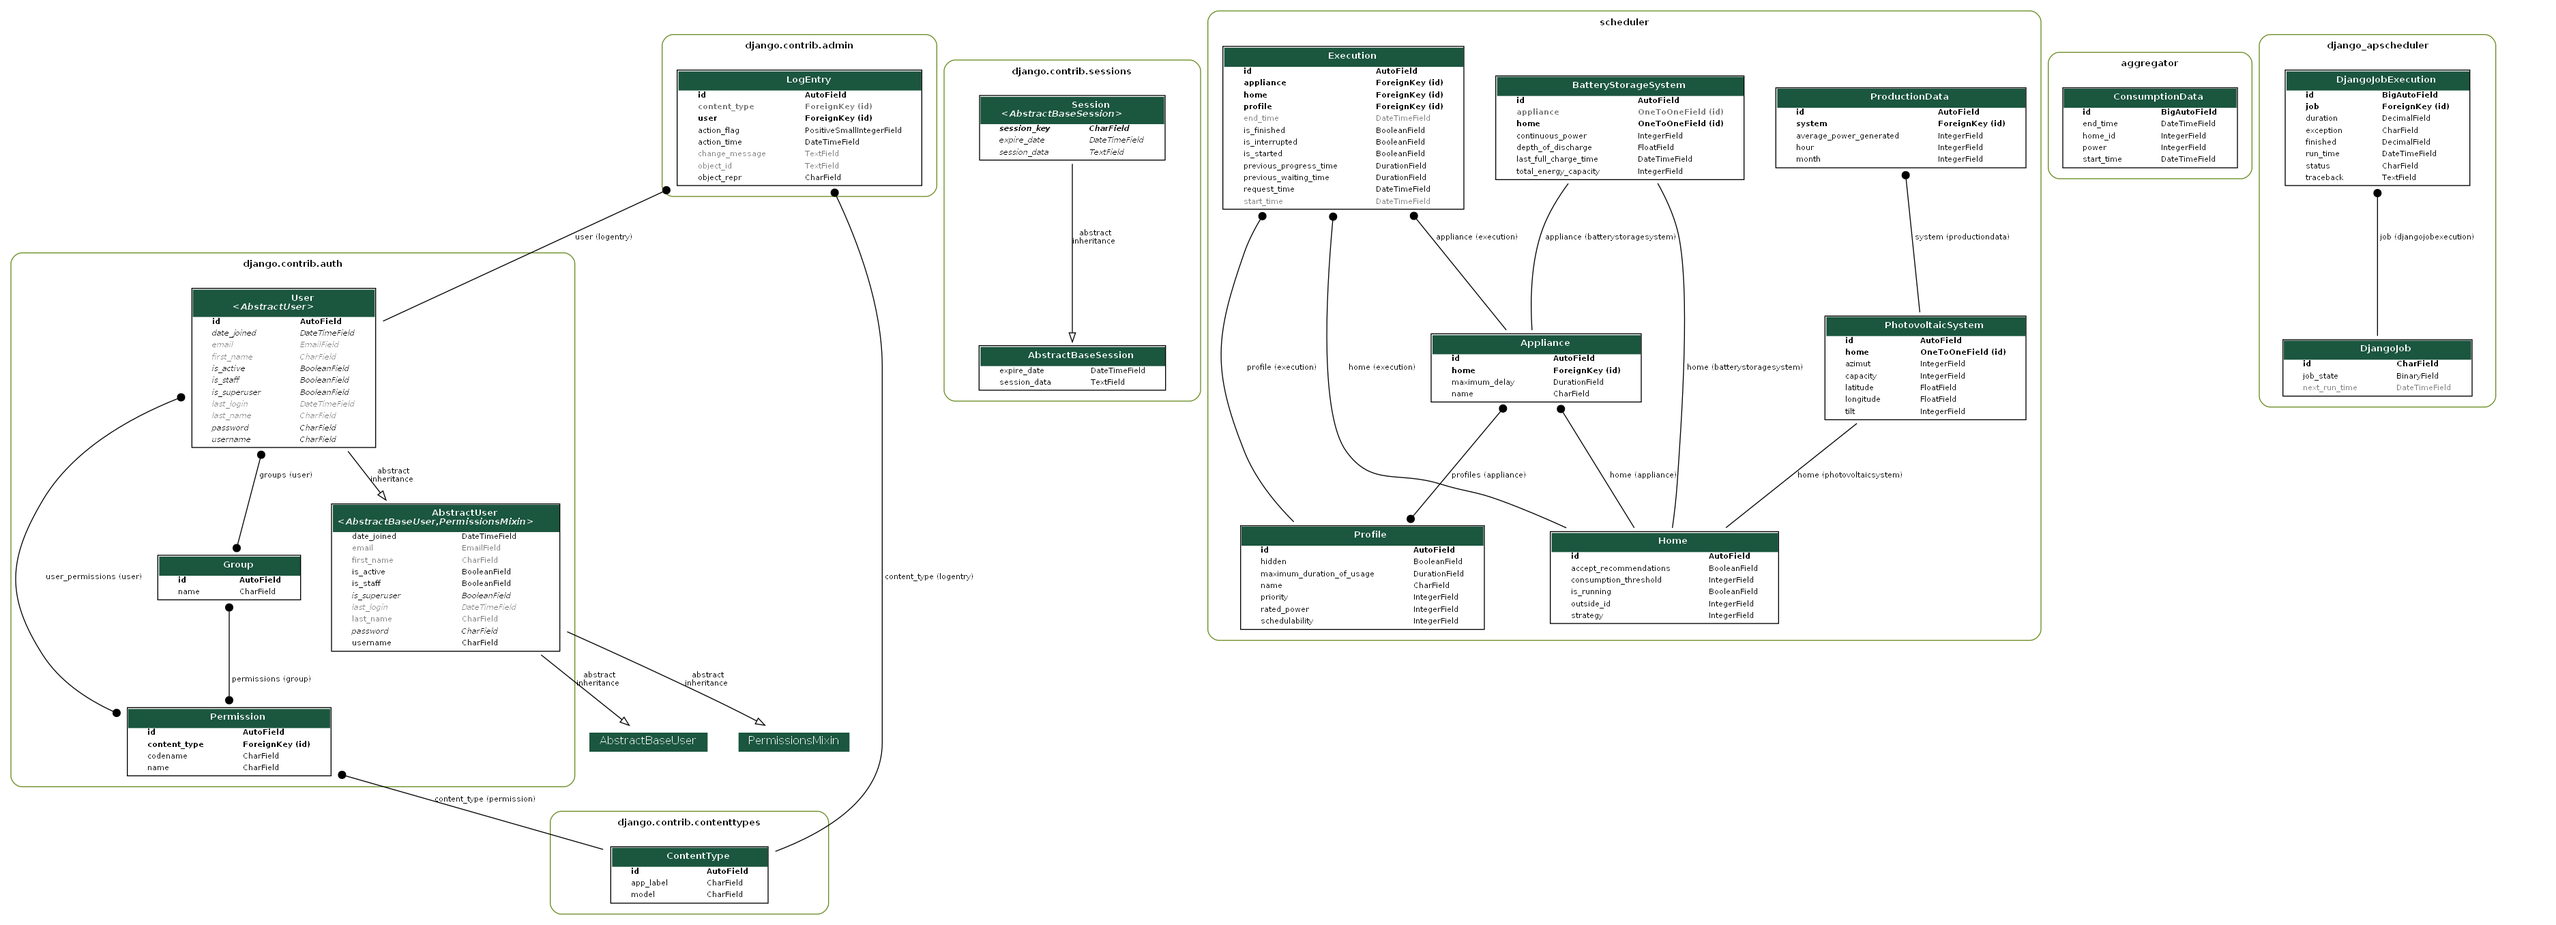
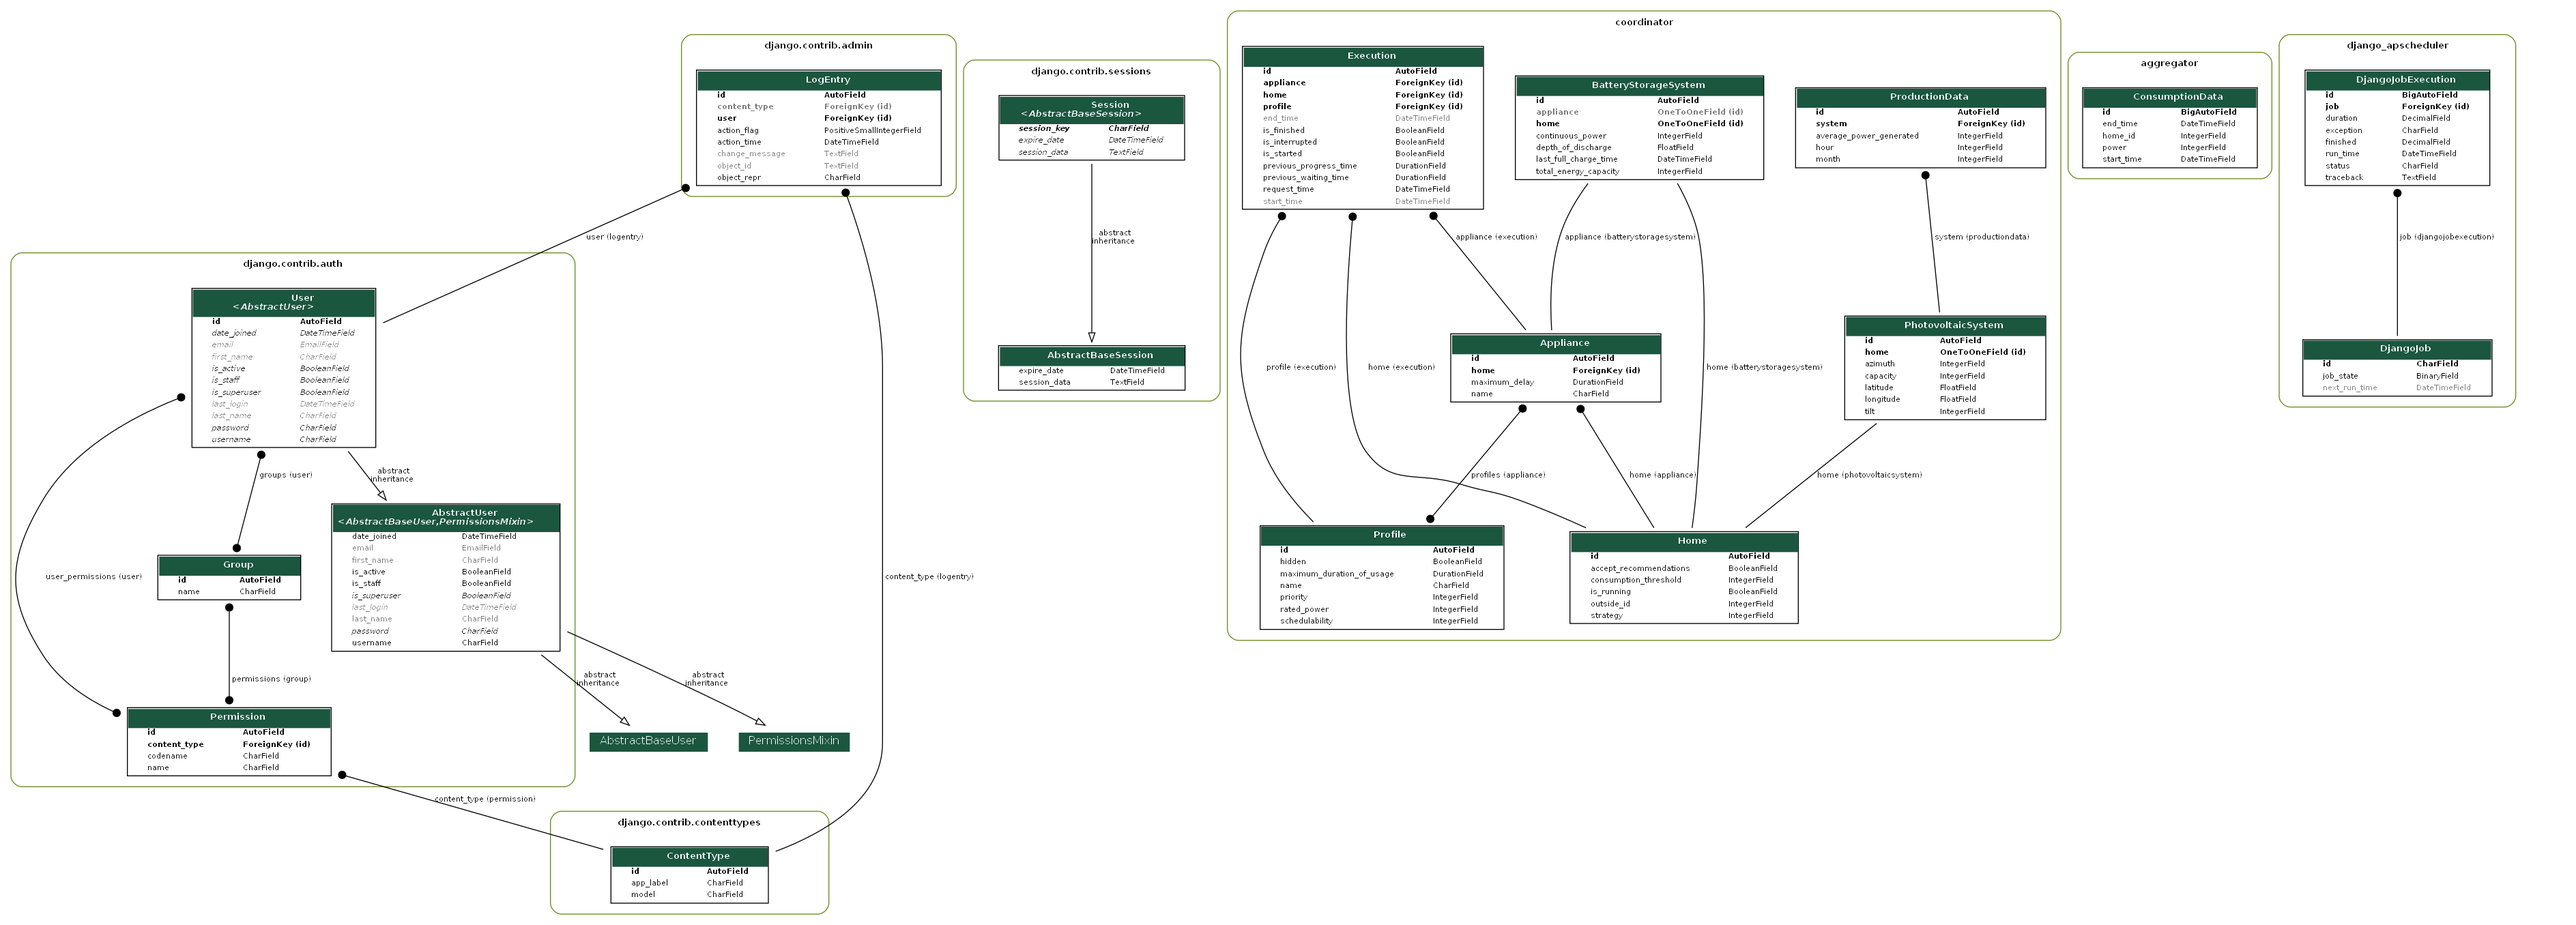
renamed scheduler app fix infinite loop in get_minimum_production_within add suport for scheduling execution ends

diff --git a/processor/core.py b/processor/core.py
@@ -113,7 +113,7 @@ def choose_execution_time(execution, available_periods):
 	maximum_delay = execution.appliance.maximum_delay
 	home = execution.home
 	if maximum_delay is not None:
-		available_periods = dict(filter(lambda e: e[0][0] - execution.request_time < maximum_delay, available_periods.items()))
+		available_periods = dict(filter(lambda e: e[0][0] - execution.request_time <= maximum_delay, available_periods.items()))
 	if available_periods:
 		priority = execution.profile.priority
 		if priority is LOW_PRIORITY and home.accept_recommendations:
@@ -131,9 +131,10 @@ def choose_execution_time(execution, available_periods):
 def get_available_execution_times(execution, minimum_start_time=None, include_bss=False, include_shiftable=False):
 	if minimum_start_time is None:
 		minimum_start_time = timezone.now()
+	timeout = minimum_start_time + timezone.timedelta(days=2)
 	home = execution.home
 	available_periods = {}
-	reference_times = get_consumption_reference_times_within(home, minimum_start_time, None)
+	reference_times = get_consumption_reference_times_within(home, minimum_start_time, timeout)
 	for proposed_start_time in reference_times:
 		proposed_end_time = calculate_execution_end_time(execution, proposed_start_time)
 		power_consumption = get_maximum_consumption_within(home, proposed_start_time, proposed_end_time)
@@ -164,7 +165,7 @@ def get_consumption_reference_times_within(home, start_time, end_time, queryset=
 	for execution in queryset:
 		if execution.start_time >= start_time:
 			time_list.append(execution.start_time)
-		if execution.end_time is not None and (end_time is None or execution.end_time < end_time):
+		if execution.end_time is not None and execution.end_time != INF_DATE and (end_time is None or execution.end_time < end_time):
 				time_list.append(execution.end_time)
 	time_list = sorted(list(dict.fromkeys(time_list)))
 	return time_list
@@ -186,7 +187,7 @@ def start_execution(execution, start_time, debug=False):
 				run_date=execution.end_time,
 				max_instances=1,
 				replace_existing=True)
-	print("Execution of " + execution.appliance.name + " starting at " + execution.start_time.strftime("%d/%m/%Y, %H:%M:%S."))
+	print("Execution of " + execution.appliance.name + " scheduled to start at " + execution.start_time.strftime("%d/%m/%Y, %H:%M:%S."))
 
 def interrupt_execution(execution):
 	execution.interrupt()
@@ -194,14 +195,23 @@ def interrupt_execution(execution):
 		background.remove_job(f"home_{execution.home.id}_execution_{execution.id}_finish")
 	print("Execution of " + execution.appliance.name + " interrupted at " + timezone.now().strftime("%d/%m/%Y, %H:%M:%S."))
 
-def finish_execution(execution, debug=False):
-	execution.finish()
-	if background.get_job(f"home_{execution.home.id}_execution_{execution.id}_finish") is not None:
-		background.remove_job(f"home_{execution.home.id}_execution_{execution.id}_finish")
-	print("Execution of " + execution.appliance.name + " finished by the user at " + timezone.now().strftime("%d/%m/%Y, %H:%M:%S."))
+def finish_execution(execution, end_time=None, debug=False):
 	home = execution.home
-	now = timezone.now()
-	anticipate_pending_executions(home, now, debug)
+	if end_time is None:
+		execution.finish()
+		if background.get_job(f"home_{home.id}_execution_{execution.id}_finish") is not None:
+			background.remove_job(f"home_{home.id}_execution_{execution.id}_finish")
+		print("Execution of " + execution.appliance.name + " finished by the user at " + timezone.now().strftime("%d/%m/%Y, %H:%M:%S."))
+	else:
+		if end_time < execution.end_time:
+			execution.set_end_time(end_time)
+			background.add_job(finish_execution_job, 'date', [execution.id],
+				id=f"home_{home.id}_execution_{execution.id}_finish",
+				run_date=execution.end_time,
+				max_instances=1,
+				replace_existing=True)	
+			print("Execution of " + execution.appliance.name + " scheduled by the user to finish at " + timezone.now().strftime("%d/%m/%Y, %H:%M:%S."))		
+	anticipate_pending_executions(home, execution.end_time, debug)
 
 def propose_schedule_execution(execution, request_time):
 	priority = execution.profile.priority

diff --git a/coordinator/models.py b/coordinator/models.py
@@ -76,12 +76,15 @@ May require switching the profile for different uses.
 '''
 class Appliance(models.Model):
     home = models.ForeignKey(Home, on_delete=models.CASCADE)
-    name = models.CharField(max_length=100, unique=True)
+    name = models.CharField(max_length=100)
     profiles = models.ManyToManyField(Profile)
     maximum_delay = models.DurationField(default=timezone.timedelta(seconds=3600), null=True)
 
     def __str__(self):
         return self.name
+
+    class Meta:
+        constraints = [models.UniqueConstraint(fields=['home', 'name'], name='unique_house_name')]
 
 '''
 Execution class
@@ -148,6 +151,11 @@ class Execution(models.Model):
                 else:
                     self.end_time = INF_DATE
             self.save()
+
+    def set_end_time(self, end_time):
+        with transaction.atomic():
+            self.end_time = end_time
+            self.save()
     
     def set_request_time(self, request_time):
         with transaction.atomic():
@@ -199,7 +207,7 @@ def create_bss_appliance(sender, instance, created, **kwargs):
                     home=instance.home,
                     name="Battery Storage System",
                     defaults={
-                        "maximum_delay": None
+                        "maximum_delay": timezone.timedelta(seconds=1)
                     }
                 )
         instance.save()
@@ -209,7 +217,7 @@ class PhotovoltaicSystem(models.Model):
     latitude = models.FloatField()
     longitude = models.FloatField()
     tilt = models.IntegerField()
-    azimut = models.IntegerField()
+    azimuth = models.IntegerField()
     capacity = models.IntegerField(help_text="System nameplate capacity (Wdc)")
     
     def __str__(self):

diff --git a/coordinator/tests.py b/coordinator/tests.py
@@ -487,7 +487,7 @@ class PVSystemTestCase(TestCase):
     def setUp(self):
         self.h1 = Home.objects.create(consumption_threshold=8000, strategy=PEAK_SHAVING, is_running=False)
         self.coordinator = core
-        PhotovoltaicSystem.objects.create(home=self.h1, latitude=38.762, longitude=-9.155, tilt=20, azimut=180, capacity=6400)
+        PhotovoltaicSystem.objects.create(home=self.h1, latitude=38.762, longitude=-9.155, tilt=20, azimuth=180, capacity=6400)
         exec(open("scripts/load_solar_data.py").read())
 
     def test_load_solar_data(self):

diff --git a/processor/external_energy.py b/processor/external_energy.py
@@ -39,6 +39,8 @@ def get_minimum_production_within(home, start_time, end_time):
     minimum_production = None
     if hasattr(home, "photovoltaicsystem"):
         time = start_time
+        if end_time > start_time + timezone.timedelta(days=2):
+            end_time = start_time + timezone.timedelta(days=2)
         while time < end_time:
             power_production = get_power_production(home, time)
             if minimum_production is None or power_production < minimum_production:

diff --git a/processor/test/core.py b/processor/test/core.py
@@ -51,8 +51,8 @@ def start_execution(execution, start_time):
 def interrupt_execution(execution):
     return core.interrupt_execution(execution)
 
-def finish_execution(execution):
-    return core.finish_execution(execution, debug=True)
+def finish_execution(execution, end_time=None):
+    return core.finish_execution(execution, end_time, debug=True)
 
 def propose_schedule_execution(execution, request_time=None):
     return core.propose_schedule_execution(execution, request_time)

diff --git a/coordinator/admin.py b/coordinator/admin.py
@@ -82,7 +82,7 @@ class BatteryStorageSystemAdmin(admin.ModelAdmin):
 
 class PhotovoltaicSystemAdmin(admin.ModelAdmin):
     list_display = ['__str__', 'latitude', 'longitude']
-    fields = ['latitude', 'longitude', 'tilt', 'azimut', 'capacity']
+    fields = ['latitude', 'longitude', 'tilt', 'azimuth', 'capacity']
     def has_delete_permission(self, request, obj=None):
             return False
 

diff --git a/README.md b/README.md
@@ -44,7 +44,7 @@ import processor.external_energy as ext
 from coordinator.models import *
 core.start()
 home = Home.objects.get(pk=1)
-e = Execution.objects.create(home=home, appliance=Appliance.objects.get(pk=8),profile=Profile.objects.get(pk=5))
+e = Execution.objects.create(home=home, appliance=Appliance.objects.get(pk=9),profile=Profile.objects.get(pk=6))
 core.schedule_execution(e)
 e.delete()
 ```
